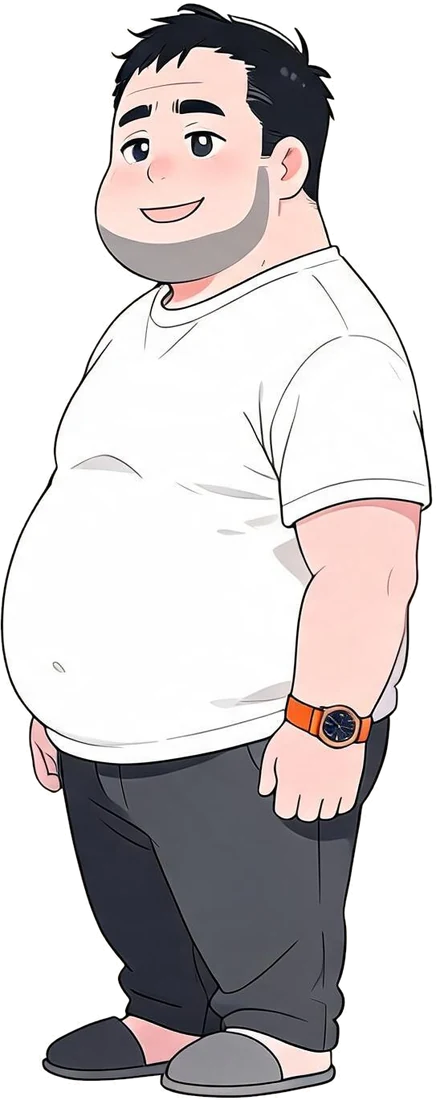
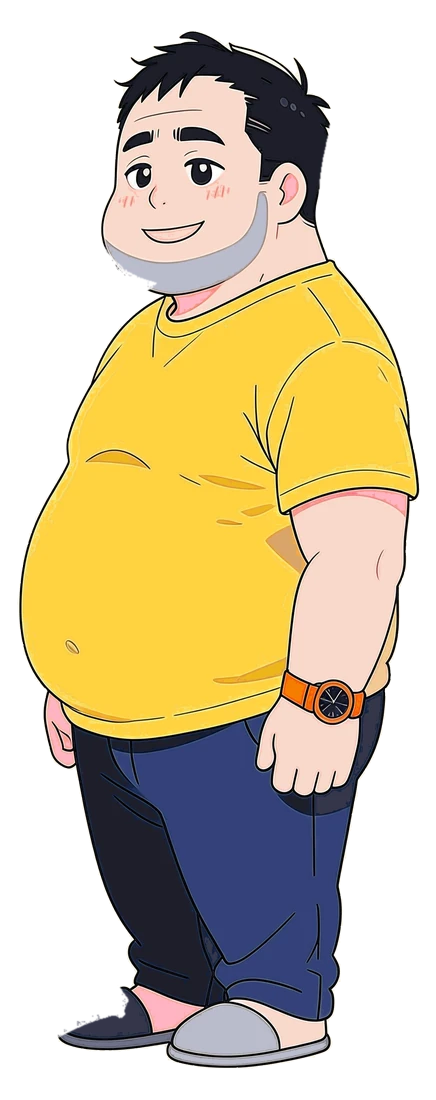
공동책임 아빠 그림 4장(dad-34·face·front·side)을 아동 컬러판(레몬 티·남색 바지)으로 다시 칠함

diff --git a/_tests/test_recolor_dad.py b/_tests/test_recolor_dad.py
@@ -1,0 +1,177 @@
+"""Item: recolour gongdong dad-34 / dad-face / dad-front / dad-side to the kids palette.
+
+Done when
+- all four images keep the size and mode of the bb74c20 original,
+- they are more colourful than the original; the three body shots (all but the
+  face crop) reach colourfulness >= 8%,
+- body shots wear a lemon T-shirt (#FFD23F / shadow #EDB51C) and navy
+  sweatpants (#34407A / shadow #242E5E) per palette.json "dad",
+- cutouts stay transparent, work PNGs / candidates never land in the repo.
+Run: python _tests/test_recolor_dad.py
+"""
+import colorsys
+import os
+import subprocess
+import sys
+import unittest
+
+sys.dont_write_bytecode = True
+sys.path.insert(0, os.path.dirname(os.path.abspath(__file__)))
+import imgcheck  # noqa: E402
+
+NAMES = ["dad-34", "dad-face", "dad-front", "dad-side"]
+BODY = ["dad-34", "dad-front", "dad-side"]  # face crop may not show clothes
+DEST = "assets/images/gongdong"
+MIN_COLOUR = 0.08       # body shots: completion criterion
+MIN_GAIN = 0.03         # body shots: base already scores 5-10% (bluish greys)
+MIN_FACE_GAIN = 0.003   # face crop: must still be measurably more colourful
+MIN_LEMON = 0.03        # T-shirt is a large area on every body shot
+MIN_NAVY_GAIN = 0.03    # base already has 1-5% dark bluish grey pixels
+
+
+def rel(n):
+    return f"{DEST}/{n}.webp"
+
+
+def hue_share(img, lo, hi, sat_min=0.35, val_min=0.0, val_max=1.0, max_side=256):
+    """Share of opaque pixels whose hue is in [lo, hi] (wraps if lo > hi)."""
+    img = img.convert("RGBA")
+    if max(img.size) > max_side:
+        img = img.copy()
+        img.thumbnail((max_side, max_side), imgcheck.Image.NEAREST)
+    total = hits = 0
+    for r, g, b, a in img.getdata():
+        if a < 128:
+            continue
+        total += 1
+        h, s, v = colorsys.rgb_to_hsv(r / 255, g / 255, b / 255)
+        h *= 360
+        inside = (lo <= h <= hi) if lo <= hi else (h >= lo or h <= hi)
+        if inside and s >= sat_min and val_min <= v <= val_max:
+            hits += 1
+    return hits / total if total else 0.0
+
+
+def lemon_share(img):
+    # lemon #FFD23F (hue ~46) / shadow #EDB51C (hue ~43); bright and saturated.
+    # Tangerine (~30), wood #F3C994 (s 0.39) and skin are excluded.
+    return hue_share(img, 40, 62, sat_min=0.5, val_min=0.75)
+
+
+def navy_share(img):
+    # navy #34407A / shadow #242E5E sit at hue ~229, dark
+    return hue_share(img, 215, 244, sat_min=0.30, val_max=0.65)
+
+
+class TestRecolorDad(unittest.TestCase):
+    def test_files_exist(self):
+        missing = [n for n in NAMES if not os.path.isfile(imgcheck.repo_path(rel(n)))]
+        self.assertEqual(missing, [])
+
+    def test_changed_from_base(self):
+        same = [n for n in NAMES
+                if imgcheck.original_bytes(rel(n))
+                == open(imgcheck.repo_path(rel(n)), "rb").read()]
+        self.assertEqual(same, [], "still the bb74c20 (mono) file")
+
+    def test_size_and_mode_match_base(self):
+        bad = []
+        for n in NAMES:
+            ok, msg = imgcheck.same_size_mode(rel(n))
+            if not ok:
+                bad.append(msg)
+        self.assertEqual(bad, [])
+
+    def test_body_more_colourful_than_base(self):
+        bad = []
+        for n in BODY:
+            old = imgcheck.colourfulness(imgcheck.original(rel(n)))
+            new = imgcheck.colourfulness(imgcheck.current(rel(n)))
+            if new < MIN_COLOUR or new < old + MIN_GAIN:
+                bad.append(f"{n}: {old:.3f} -> {new:.3f}")
+        self.assertEqual(bad, [], f"need >= {MIN_COLOUR} and > base + {MIN_GAIN}")
+
+    def test_face_more_colourful_than_base(self):
+        n = "dad-face"
+        old = imgcheck.colourfulness(imgcheck.original(rel(n)))
+        new = imgcheck.colourfulness(imgcheck.current(rel(n)))
+        self.assertGreaterEqual(new, old + MIN_FACE_GAIN, f"{n}: {old:.3f} -> {new:.3f}")
+
+    def test_lemon_tshirt_present(self):
+        low = [f"{n}: {lemon_share(imgcheck.current(rel(n))):.3f}" for n in BODY
+               if lemon_share(imgcheck.current(rel(n))) < MIN_LEMON]
+        self.assertEqual(low, [], "lemon T-shirt colour missing (white tee left?)")
+
+    def test_navy_pants_present(self):
+        low = []
+        for n in BODY:
+            old = navy_share(imgcheck.original(rel(n)))
+            new = navy_share(imgcheck.current(rel(n)))
+            if new < old + MIN_NAVY_GAIN:
+                low.append(f"{n}: {old:.3f} -> {new:.3f}")
+        self.assertEqual(low, [], f"navy pants must add >= {MIN_NAVY_GAIN} over base")
+
+    def test_transparent_background_kept(self):
+        # Cutouts: top corners must stay transparent (no cream box left by recolour).
+        bad = []
+        for n in NAMES:
+            img = imgcheck.current(rel(n)).convert("RGBA")
+            w, h = img.size
+            for xy in [(0, 0), (w - 1, 0)]:
+                if img.getpixel(xy)[3] > 16:
+                    bad.append(f"{n} {xy}")
+        self.assertEqual(bad, [], "background not transparent at top corners")
+
+    def test_no_work_files_in_repo(self):
+        out = subprocess.run(
+            ["git", "status", "--porcelain", "--untracked-files=all", "--ignored"],
+            cwd=imgcheck.REPO, capture_output=True, text=True, check=True).stdout
+        stray = [line for line in out.splitlines()
+                 if "dad" in line.lower()
+                 and line.lower().rstrip('"').endswith((".png", ".webp", ".jpg", ".jpeg"))
+                 and not line[3:].strip().strip('"') in [rel(n) for n in NAMES]]
+        self.assertEqual(stray, [], "work PNG / candidate left inside the repo")
+
+
+class TestHelpers(unittest.TestCase):
+    def test_hue_share_bounds(self):
+        Image = imgcheck.Image
+
+        def solid(rgb, a=255):
+            return Image.new("RGBA", (4, 4), rgb + (a,))
+
+        lemon, lemon_sh = solid((0xFF, 0xD2, 0x3F)), solid((0xED, 0xB5, 0x1C))
+        navy, navy_sh = solid((0x34, 0x40, 0x7A)), solid((0x24, 0x2E, 0x5E))
+        tang, skin = solid((0xF5, 0x7C, 0x00)), solid((0xFF, 0xF3, 0xEC))
+        wood, white = solid((0xF3, 0xC9, 0x94)), solid((255, 255, 255))
+        pastel_lemon = solid((0xFF, 0xF3, 0xC4))
+        sky, grey = solid((0x3F, 0xA9, 0xF5)), solid((90, 90, 90))
+        self.assertEqual(lemon_share(lemon), 1.0)
+        self.assertEqual(lemon_share(lemon_sh), 1.0)
+        for other in (tang, skin, wood, white, pastel_lemon, navy, grey):
+            self.assertEqual(lemon_share(other), 0.0)
+        self.assertEqual(lemon_share(solid((0xFF, 0xD2, 0x3F), a=0)), 0.0)
+        self.assertEqual(navy_share(navy), 1.0)
+        self.assertEqual(navy_share(navy_sh), 1.0)
+        self.assertEqual(navy_share(sky), 0.0)  # too bright for navy
+        self.assertEqual(navy_share(grey), 0.0)
+        self.assertEqual(navy_share(lemon), 0.0)
+
+    def test_colour_threshold_edge(self):
+        # colourfulness counts lemon/navy; 8% boundary: 20/256 fails, 21/256 passes.
+        Image = imgcheck.Image
+        img = Image.new("RGBA", (16, 16), (255, 255, 255, 255))
+        for i in range(20):
+            img.putpixel((i % 16, i // 16), (0xFF, 0xD2, 0x3F, 255))
+        self.assertLess(imgcheck.colourfulness(img), MIN_COLOUR)
+        img.putpixel((4, 1), (0x34, 0x40, 0x7A, 255))
+        self.assertGreaterEqual(imgcheck.colourfulness(img), MIN_COLOUR)
+
+    def test_base_has_no_lemon(self):
+        # The mono originals must fail the T-shirt check, else it proves nothing.
+        for n in BODY:
+            self.assertLess(lemon_share(imgcheck.original(rel(n))), MIN_LEMON, n)
+
+
+if __name__ == "__main__":
+    unittest.main(verbosity=1)
